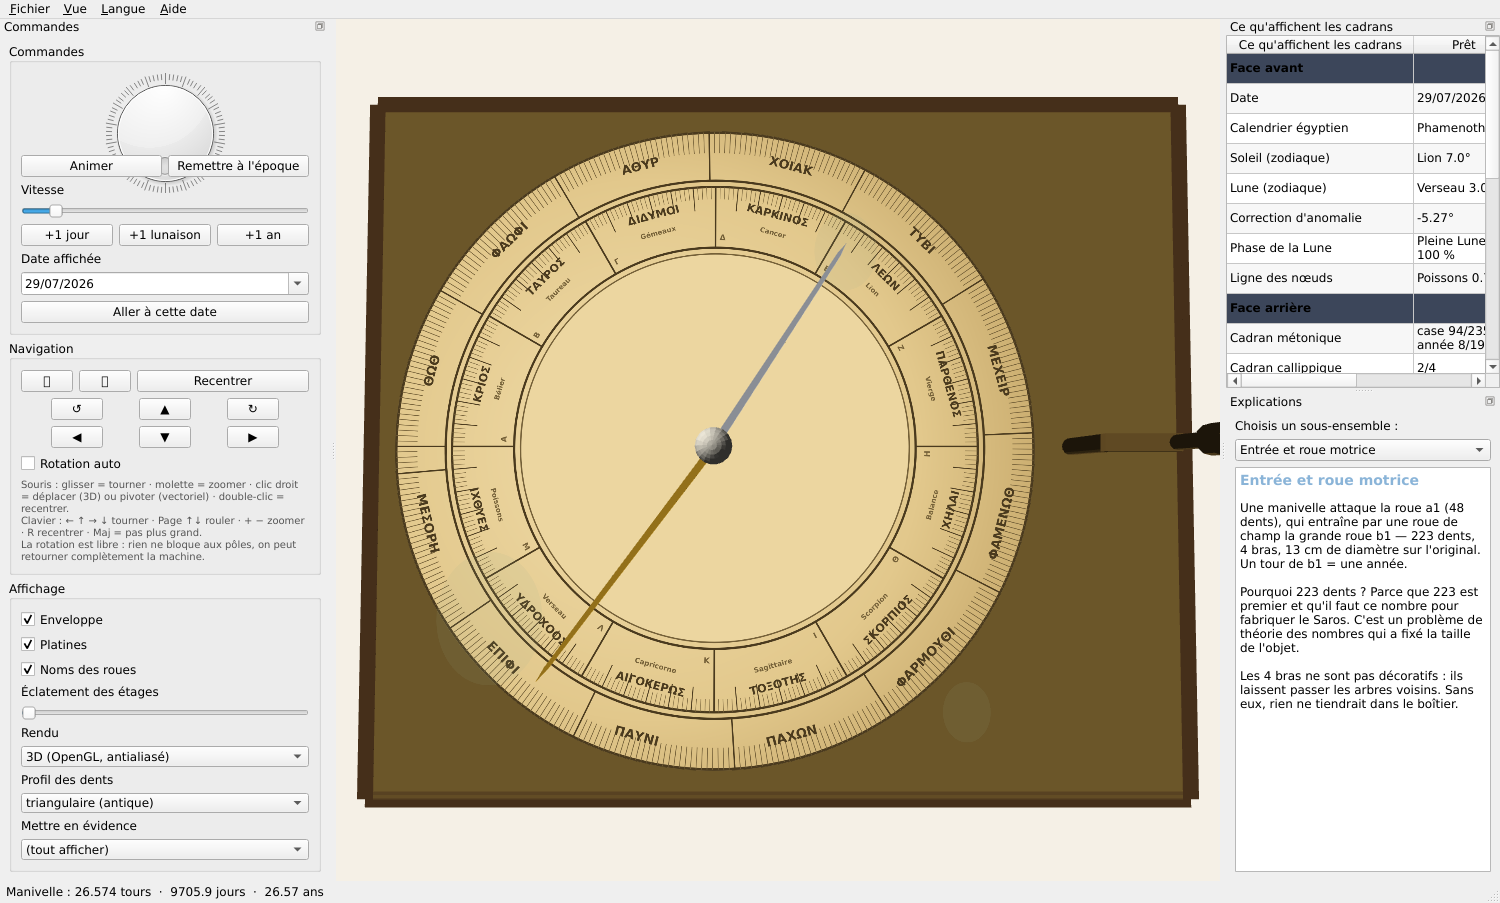
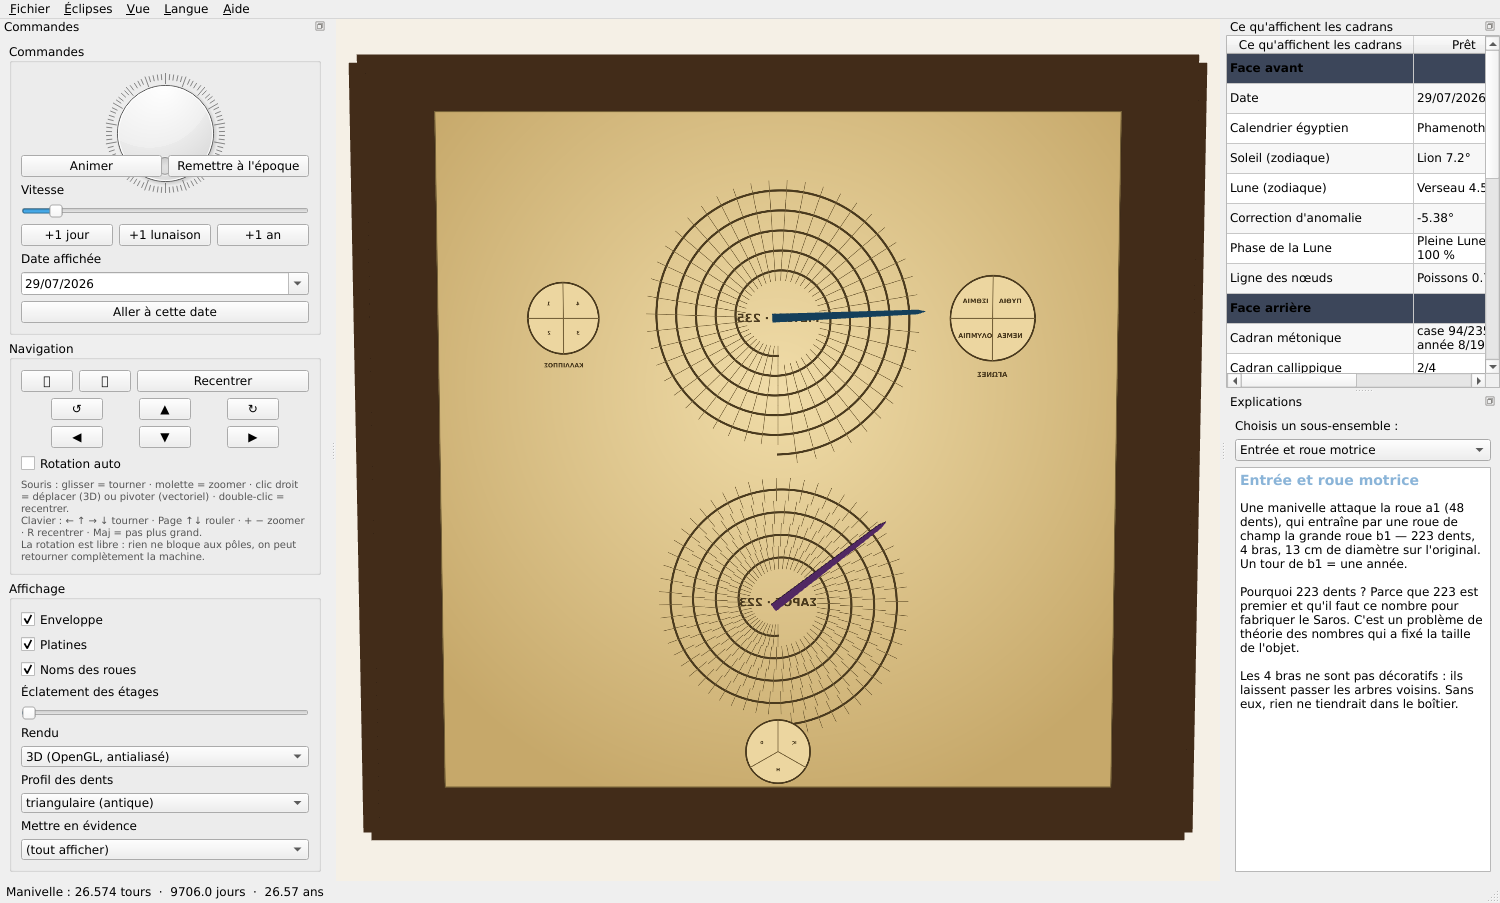
Boitier ajuste a l'emprise reelle, aiguilles du dos recentrees, eclipses
- layout.mechanism_extent() : le boitier est calcule sur les rayons de tete
  de toutes les roues et la manivelle. Il etait trop court en hauteur, et la
  grande roue e3 depassait par le bas.
- les aiguilles du dos tournent desormais autour du centre de LEUR spirale
  et non de l'axe central ; leur longueur suit le rayon de la spirale.
  Cause racine : GLImageItem interprete data[i,j] comme le point (i,j), la
  texture etait donc couchee, ce que j'avais compense par un roulis de
  camera — ce qui desynchronisait les aiguilles.
- astro.next_eclipses() : recherche des syzygies par bissection puis test de
  proximite au noeud. Limites corrigees (centrale sous 15,4 deg pour le
  Soleil, 9,5 pour la Lune) : l'eclipse totale du 12/08/2026 etait classee
  "possible" au lieu de "certaine".
- menu Eclipses (touche E) : liste datee, double-clic pour y aller.

diff --git a/anticythere/view3d.py b/anticythere/view3d.py
@@ -128,10 +128,13 @@ if HAS_GL:
                 geo.pointer_mesh(104.0, 0.0), (0.85, 0.65, 0.15, 1.0))
             self._pointers["moon"] = self._add(
                 geo.pointer_mesh(86.0, 0.0), (0.80, 0.82, 0.86, 1.0))
+            # aiguilles du dos : leur longueur suit le rayon de leur spirale
             self._pointers["metonic"] = self._add(
-                geo.pointer_mesh(58.0, 0.0), lay.COLORS["metonic"])
+                geo.pointer_mesh(lay.METONIC_RADIUS * 1.02, 0.0),
+                lay.COLORS["metonic"])
             self._pointers["saros"] = self._add(
-                geo.pointer_mesh(52.0, 0.0), lay.COLORS["saros"])
+                geo.pointer_mesh(lay.SAROS_RADIUS * 1.02, 0.0),
+                lay.COLORS["saros"])
 
             # anneau du zodiaque, visible même machine ouverte
             self._dials = [self._add(
@@ -169,15 +172,23 @@ if HAS_GL:
             if data is None:
                 img = (dialface.render_front_dial(1600, lang=self.dial_lang)
                        if which == "front"
-                       else dialface.render_back_dial(1600, lang=self.dial_lang))
+                       else dialface.render_back_dial(1600, lang=self.dial_lang,
+                                                      mirror=False))
                 data = dialface.image_to_array(img)
                 self._dial_cache[key] = data
+            # GLImageItem interprète data[i, j] comme le point (i, j) : la
+            # première dimension part donc sur X, pas sur Y. Sans cette
+            # transposition l'image est couchée — et compenser par un roulis
+            # de caméra désynchronise les aiguilles, qui, elles, sont placées
+            # dans le repère de la scène.
+            import numpy as _np
+            data = _np.ascontiguousarray(data.transpose(1, 0, 2))
             if flip:
-                # La face arrière se regarde depuis l'autre côté : on voit donc
-                # le dos de la texture. Une rotation ou un facteur d'échelle
-                # négatif ne changent rien (un plan retourné reste un plan
-                # retourné) — il faut miroiter l'IMAGE elle-même.
-                data = data[:, ::-1].copy()
+                # face regardée par derrière : miroir sur la dimension qui
+                # porte l'axe X de la scène (la première, après transposition)
+                data = _np.ascontiguousarray(data[::-1])
+            # (le miroir de la face arrière est appliqué au dessin lui-même,
+            # cf. dialface.render_back_dial(mirror=True))
             item = gl.GLImageItem(data, smooth=True)
             n = data.shape[0]
             m = QtGui.QMatrix4x4()
@@ -282,15 +293,25 @@ if HAS_GL:
 
         def set_pointers(self, sun_turns, moon_turns, metonic_turns, saros_turns):
             zb = self.z_back
-            for key, turns, z in (("sun", sun_turns, self.z_front + 2.5),
-                                  ("moon", moon_turns, self.z_front + 5.0),
-                                  ("metonic", metonic_turns, zb - 4.0),
-                                  ("saros", saros_turns, zb - 7.0)):
+            # chaque aiguille tourne autour du centre de SON cadran : celles du
+            # dos ne sont pas sur l'axe central, mais au cœur de leur spirale.
+            specs = (
+                ("sun", sun_turns, 0.0, 0.0, self.z_front + 2.5, 1.0),
+                ("moon", moon_turns, 0.0, 0.0, self.z_front + 5.0, 1.0),
+                ("metonic", metonic_turns, lay.METONIC_CENTER[0],
+                 lay.METONIC_CENTER[1], zb - 2.0, -1.0),
+                ("saros", saros_turns, lay.SAROS_CENTER[0],
+                 lay.SAROS_CENTER[1], zb - 4.0, -1.0),
+            )
+            for key, turns, px, py, z, mirror in specs:
                 item = self._pointers.get(key)
                 if item is None:
                     continue
                 m = QtGui.QMatrix4x4()
-                m.translate(0.0, 0.0, z)
+                m.translate(px, py, z)
+                # le dos est vu par-derrière : on y miroite l'aiguille comme
+                # le cadran, sinon elle tournerait à l'envers de la gravure
+                m.scale(mirror, 1.0, 1.0)
                 m.rotate(-360.0 * turns, 0.0, 0.0, 1.0)
                 item.setTransform(m)
 
@@ -319,12 +340,7 @@ if HAS_GL:
             if mode == "front":
                 self.setCameraPosition(distance=330, elevation=88, azimuth=-90)
             elif mode == "back":
-                # azimut opposé à la face avant, puis un quart de tour de
-                # roulis : sans lui, les inscriptions du dos sont couchées
                 self.setCameraPosition(distance=330, elevation=-88, azimuth=90)
-                self.opts["center"] = QtGui.QVector3D(*lay.CENTER)
-                self.roll(90.0)
-                return
             else:
                 self.setCameraPosition(distance=360, elevation=24, azimuth=-62)
             self.opts["center"] = QtGui.QVector3D(*lay.CENTER)

diff --git a/anticythere/mainwindow.py b/anticythere/mainwindow.py
@@ -262,6 +262,10 @@ class MainWindow(QtWidgets.QMainWindow):
         self.act_quit = self.m_file.addAction("", self.close)
         self.act_quit.setShortcut("Ctrl+Q")
 
+        self.m_eclipse = mb.addMenu("")
+        self.act_eclipses = self.m_eclipse.addAction("", self._show_eclipses)
+        self.act_eclipses.setShortcut("E")
+
         self.m_view = mb.addMenu("")
         self.act_front = self.m_view.addAction("", lambda: self.view.look_at("front"))
         self.act_back = self.m_view.addAction("", lambda: self.view.look_at("back"))
@@ -379,6 +383,9 @@ class MainWindow(QtWidgets.QMainWindow):
         self.act_stl.setText(tr("menu.file.stl", L))
         self.act_stl.setToolTip(tr("menu.file.stl.tip", L))
         self.act_quit.setText(tr("menu.file.quit", L))
+        self.m_eclipse.setTitle(tr("menu.eclipse", L))
+        self.act_eclipses.setText(tr("menu.eclipse.next", L))
+        self.act_eclipses.setToolTip(tr("menu.eclipse.tip", L))
         self.m_view.setTitle(tr("menu.view", L))
         self.act_front.setText(tr("menu.view.front", L))
         self.act_back.setText(tr("menu.view.back", L))
@@ -592,6 +599,75 @@ class MainWindow(QtWidgets.QMainWindow):
         body = tr(f"expl.{key}", self.lang).replace("\n", "<br>")
         self.txt_expl.setHtml(
             f"<h3 style='color:#8ab4d8'>{title}</h3><p>{body}</p>")
+
+    # -------------------------------------------------------- éclipses
+    def _show_eclipses(self):
+        """Liste les prochaines éclipses ; un double-clic y emmène la machine."""
+        L = self.lang
+        jd0 = self.epoch_jd + self.mech.days
+        QtWidgets.QApplication.setOverrideCursor(
+            QtCore.Qt.CursorShape.WaitCursor)
+        try:
+            events = astro.next_eclipses(jd0, count=12)
+        finally:
+            QtWidgets.QApplication.restoreOverrideCursor()
+
+        dlg = QtWidgets.QDialog(self)
+        dlg.setWindowTitle(tr("menu.eclipse.next", L))
+        dlg.resize(660, 440)
+        v = QtWidgets.QVBoxLayout(dlg)
+        v.addWidget(QtWidgets.QLabel(tr("eclipse.intro", L)))
+        table = QtWidgets.QTableWidget(len(events), 4)
+        table.setHorizontalHeaderLabels([
+            tr("dial.date", L), tr("eclipse.kind", L),
+            tr("eclipse.node", L), tr("eclipse.quality", L)])
+        table.setEditTriggers(
+            QtWidgets.QAbstractItemView.EditTrigger.NoEditTriggers)
+        table.setSelectionBehavior(
+            QtWidgets.QAbstractItemView.SelectionBehavior.SelectRows)
+        for r, e in enumerate(events):
+            d = astro.from_julian_day(e["jd"])
+            kind = tr("eclipse.solar" if e["type"] == "solar"
+                      else "eclipse.lunar", L)
+            qual = tr("eclipse.central" if e["certain"]
+                      else "eclipse.partial", L)
+            for c, txt in enumerate((d.strftime("%d/%m/%Y  %Hh%M UTC"), kind,
+                                     f"{e['arg']:.2f}°", qual)):
+                item = QtWidgets.QTableWidgetItem(txt)
+                item.setData(QtCore.Qt.ItemDataRole.UserRole, e["jd"])
+                if e["type"] == "solar":
+                    item.setForeground(QtGui.QColor(150, 90, 20))
+                table.setItem(r, c, item)
+        table.resizeColumnsToContents()
+        table.doubleClicked.connect(
+            lambda idx: self._goto_jd(
+                table.item(idx.row(), 0).data(QtCore.Qt.ItemDataRole.UserRole)))
+        v.addWidget(table)
+
+        note = QtWidgets.QLabel(tr("eclipse.note", L))
+        note.setWordWrap(True)
+        note.setStyleSheet("color:#555; font-size:11px;")
+        v.addWidget(note)
+
+        bb = QtWidgets.QDialogButtonBox()
+        go = bb.addButton(tr("eclipse.goto", L),
+                          QtWidgets.QDialogButtonBox.ButtonRole.AcceptRole)
+        bb.addButton(QtWidgets.QDialogButtonBox.StandardButton.Close)
+        go.clicked.connect(lambda: (
+            self._goto_jd(table.item(max(table.currentRow(), 0), 0)
+                          .data(QtCore.Qt.ItemDataRole.UserRole)), dlg.close()))
+        bb.rejected.connect(dlg.close)
+        v.addWidget(bb)
+        dlg.exec()
+
+    def _goto_jd(self, jd: float):
+        """Emmène la machine à une date donnée en jour julien."""
+        if jd is None:
+            return
+        self.mech.days = jd - self.epoch_jd
+        d = astro.from_julian_day(jd)
+        self.date_edit.setDate(QtCore.QDate(d.year, d.month, d.day))
+        self.refresh()
 
     # ------------------------------------------------------ mise à jour
     def _check_update(self, manual: bool = False):

diff --git a/anticythere/astro.py b/anticythere/astro.py
@@ -152,10 +152,13 @@ def illuminated_fraction(jd: float) -> float:
 
 
 # ------------------------------------------------------------------ éclipses
-#: limites d'éclipse approchées : écart maximal au nœud, en degrés de
-#: longitude, pour qu'une éclipse soit possible (Meeus ch. 54).
+#: limites d'éclipse, en degrés d'écart au nœud (Meeus ch. 54).
+#: au-delà de LIMIT, rien ; en deçà de CENTRAL, l'éclipse est certaine ;
+#: entre les deux, elle dépend de la parallaxe et du lieu d'observation.
 SOLAR_LIMIT = 18.5
+SOLAR_CENTRAL = 15.4
 LUNAR_LIMIT = 12.2
+LUNAR_CENTRAL = 9.5
 
 
 def eclipse_possible(jd: float) -> dict:
@@ -173,10 +176,62 @@ def eclipse_possible(jd: float) -> dict:
     near_new = min(e, 360.0 - e) < 12.0
     near_full = abs(e - 180.0) < 12.0
     if near_new and dist < SOLAR_LIMIT:
-        return dict(type="solar", certain=dist < 10.0, arg=dist)
+        return dict(type="solar", certain=dist < SOLAR_CENTRAL, arg=dist)
     if near_full and dist < LUNAR_LIMIT:
-        return dict(type="lunar", certain=dist < 6.0, arg=dist)
+        return dict(type="lunar", certain=dist < LUNAR_CENTRAL, arg=dist)
     return dict(type=None, certain=False, arg=dist)
+
+
+# ------------------------------------------------- recherche des éclipses
+def _syzygy_gap(jd: float, target: float) -> float:
+    """Écart à la syzygie visée (0 = nouvelle Lune, 180 = pleine), dans
+    l'intervalle ]-180, 180]."""
+    return ((elongation(jd) - target + 180.0) % 360.0) - 180.0
+
+
+def find_syzygies(jd_start: float, days: float = 1200.0) -> list:
+    """Toutes les nouvelles et pleines Lunes de la période, par bissection."""
+    out = []
+    for target, kind in ((0.0, "new"), (180.0, "full")):
+        t = jd_start
+        prev = _syzygy_gap(t, target)
+        while t < jd_start + days:
+            t2 = t + 0.5
+            cur = _syzygy_gap(t2, target)
+            if prev < 0.0 <= cur:                 # passage par la syzygie
+                a, b = t, t2
+                for _ in range(60):
+                    m = 0.5 * (a + b)
+                    if _syzygy_gap(m, target) < 0.0:
+                        a = m
+                    else:
+                        b = m
+                out.append((0.5 * (a + b), kind))
+            prev, t = cur, t2
+    return sorted(out)
+
+
+def next_eclipses(jd_start: float, count: int = 8,
+                  days: float = 1500.0) -> list:
+    """Prochaines éclipses : date exacte, type, écart au nœud, certitude.
+
+    On cherche d'abord les syzygies, puis on teste chacune : c'est la
+    démarche même que mécanise le Saros.
+    """
+    res = []
+    for jd, kind in find_syzygies(jd_start, days):
+        a = moon_arguments(jd)
+        f = a["F"] % 180.0
+        dist = min(f, 180.0 - f)
+        if kind == "new" and dist < SOLAR_LIMIT:
+            res.append(dict(jd=jd, type="solar", arg=dist,
+                            certain=dist < SOLAR_CENTRAL))
+        elif kind == "full" and dist < LUNAR_LIMIT:
+            res.append(dict(jd=jd, type="lunar", arg=dist,
+                            certain=dist < LUNAR_CENTRAL))
+        if len(res) >= count:
+            break
+    return res
 
 
 # --------------------------------------------------------------- calibration

diff --git a/anticythere/i18n.py b/anticythere/i18n.py
@@ -33,6 +33,36 @@ T: dict[str, dict[str, str]] = {
         "en": "Available in vector mode. The file contains curves only:\n"
               "zoom in or print at A0 with no pixels at all."},
     "menu.file.quit": {"fr": "Quitter", "en": "Quit"},
+    "menu.eclipse": {"fr": "&Éclipses", "en": "&Eclipses"},
+    "menu.eclipse.next": {"fr": "Prochaines éclipses…", "en": "Upcoming eclipses…"},
+    "menu.eclipse.tip": {
+        "fr": "Cherche les prochaines syzygies et teste, pour chacune, la\n"
+              "proximité d'un nœud — la démarche même que mécanise le Saros.",
+        "en": "Finds the coming syzygies and tests each one against the\n"
+              "nearness of a node — the very method the Saros mechanises."},
+    "eclipse.intro": {
+        "fr": "Double-clique sur une ligne pour y emmener la machine.",
+        "en": "Double-click a row to take the mechanism to that date."},
+    "eclipse.kind": {"fr": "Type", "en": "Type"},
+    "eclipse.node": {"fr": "Écart au nœud", "en": "Distance to node"},
+    "eclipse.quality": {"fr": "Nature", "en": "Nature"},
+    "eclipse.solar": {"fr": "de Soleil", "en": "solar"},
+    "eclipse.lunar": {"fr": "de Lune", "en": "lunar"},
+    "eclipse.central": {"fr": "centrale — certaine", "en": "central — certain"},
+    "eclipse.partial": {"fr": "partielle, selon le lieu",
+                        "en": "partial, depends on location"},
+    "eclipse.goto": {"fr": "Aller à cette date", "en": "Go to this date"},
+    "eclipse.note": {
+        "fr": "Les dates sont calculées par éphémérides modernes, à quelques "
+              "minutes près : elles servent de référence pour juger la machine, "
+              "qui, elle, ne connaît que la case du Saros. L'écart au nœud "
+              "décide de tout : en dessous de 15,4° une éclipse de Soleil est "
+              "centrale, au-delà de 18,5° il n'y en a pas.",
+        "en": "Dates come from modern ephemerides, accurate to a few minutes: "
+              "they are the yardstick against which the mechanism — which only "
+              "knows its Saros cell — is judged. The distance to the node "
+              "decides everything: below 15.4° a solar eclipse is central, "
+              "beyond 18.5° there is none."},
     "menu.view": {"fr": "&Vue", "en": "&View"},
     "menu.view.case": {"fr": "Afficher l'enveloppe", "en": "Show the case"},
     "menu.view.plates": {"fr": "Afficher les platines", "en": "Show the plates"},

diff --git a/anticythere/layout.py b/anticythere/layout.py
@@ -133,13 +133,48 @@ def arbor_extent(arbor: str) -> tuple[float, float]:
     return min(zs) - 3.0, max(zs) + GEAR_THICKNESS + 3.0
 
 
-#: emprise réelle du mécanisme : b1 s'étend jusqu'à x = -112, la manivelle
-#: jusqu'à x = +160 ; le boîtier doit donc être centré sur x ≈ 24, pas sur 0.
-CASE_CX = 24.0
-CASE_CY = 0.0
-CASE_WIDTH = 310.0
-CASE_HEIGHT = 265.0
+def mechanism_extent(margin: float = 14.0) -> tuple[float, float, float, float]:
+    """Emprise réelle du mécanisme : (x_min, x_max, y_min, y_max).
+
+    Mesurée sur les rayons de tête de toutes les roues, plus la manivelle.
+    Le boîtier en découle — le calculer à la main, c'est se retrouver avec
+    une grande roue qui dépasse.
+    """
+    from .kinematics import TEETH
+
+    xs, ys = [], []
+    for gear in LEVELS:
+        x, y = ARBORS[ARBOR_OF[gear]]
+        r = MODULE * (TEETH[gear] / 2.0 + 1.0)
+        xs += [x - r, x + r]
+        ys += [y - r, y + r]
+    ax, ay = ARBORS["a"]                       # la manivelle sort du flanc
+    xs += [ax + 30.0]
+    ys += [ay - 20.0, ay + 20.0]
+    return (min(xs) - margin, max(xs) + margin,
+            min(ys) - margin, max(ys) + margin)
+
+
+_X0, _X1, _Y0, _Y1 = mechanism_extent()
+CASE_WIDTH = _X1 - _X0
+CASE_HEIGHT = _Y1 - _Y0
+CASE_CX = (_X0 + _X1) / 2.0
+CASE_CY = (_Y0 + _Y1) / 2.0
 CASE_DEPTH = (N_LEVELS + 1) * LEVEL_PITCH
 
 #: centre géométrique, pour recentrer la caméra
 CENTER = (CASE_CX, CASE_CY, CASE_DEPTH / 2.0)
+
+# --- cadran arrière : où sont réellement les centres des deux spirales -----
+#: côté de la texture du dos, en mm
+BACK_DIAL_SPAN = 250.0
+#: positions dans la texture, en fraction de son côté (cf. dialface)
+_METONIC_FY, _SAROS_FY = 0.30, 0.72
+#: rayons extérieurs des deux spirales, en fraction du côté
+_METONIC_FR, _SAROS_FR = 0.20, 0.185
+
+#: y de l'image va vers le bas, y de la scène vers le haut : d'où le signe.
+METONIC_CENTER = (CASE_CX, CASE_CY + BACK_DIAL_SPAN * (0.5 - _METONIC_FY))
+SAROS_CENTER = (CASE_CX, CASE_CY + BACK_DIAL_SPAN * (0.5 - _SAROS_FY))
+METONIC_RADIUS = BACK_DIAL_SPAN * _METONIC_FR
+SAROS_RADIUS = BACK_DIAL_SPAN * _SAROS_FR

diff --git a/anticythere/dialface.py b/anticythere/dialface.py
@@ -262,8 +262,17 @@ def render_front_dial(size: int = 2048, calendar_days: int = 365,
                                                        calendar_days, lang), size)
 
 
-def render_back_dial(size: int = 2048, lang: str = "fr") -> QtGui.QImage:
-    return _render(lambda p, x, y, r: paint_back_dial(p, x, y, r, lang), size)
+def render_back_dial(size: int = 2048, lang: str = "fr",
+                     mirror: bool = False) -> QtGui.QImage:
+    """Face arrière. `mirror` dessine l'image en miroir horizontal : c'est ce
+    qu'il faut pour la texture 3D, puisqu'on regarde cette face par derrière.
+    Les deux spirales étant centrées, leurs centres ne bougent pas."""
+    def draw(p, x, y, r):
+        if mirror:
+            p.translate(2.0 * x, 0.0)
+            p.scale(-1.0, 1.0)
+        paint_back_dial(p, x, y, r, lang)
+    return _render(draw, size)
 
 
 def image_to_array(img: QtGui.QImage):
